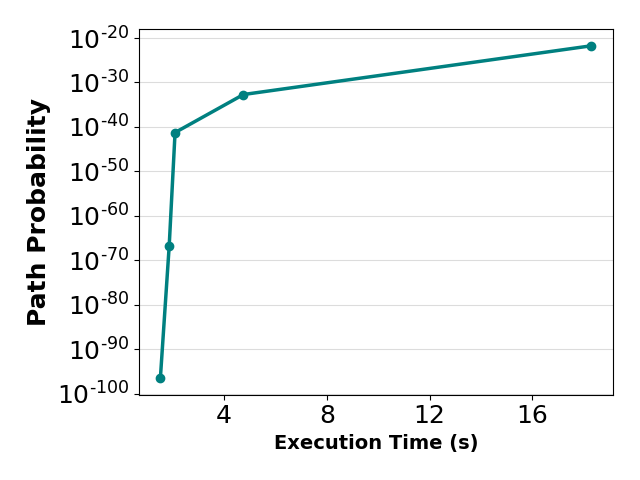
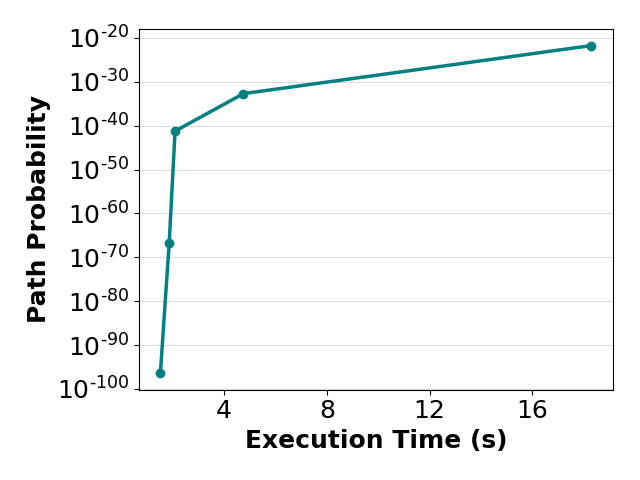
First plots

diff --git a/results/prelim/plot.py b/results/prelim/plot.py
@@ -31,7 +31,7 @@ plt.yticks(listOf_Yticks)
 listOf_Xticks = [4,8,12,16]
 plt.xticks(listOf_Xticks)
 
-plt.xlabel('Execution Time (s)', fontsize=14)
+plt.xlabel('Execution Time (s)', fontsize=18)
 
 plt.grid(color='gainsboro', axis='y')
 
